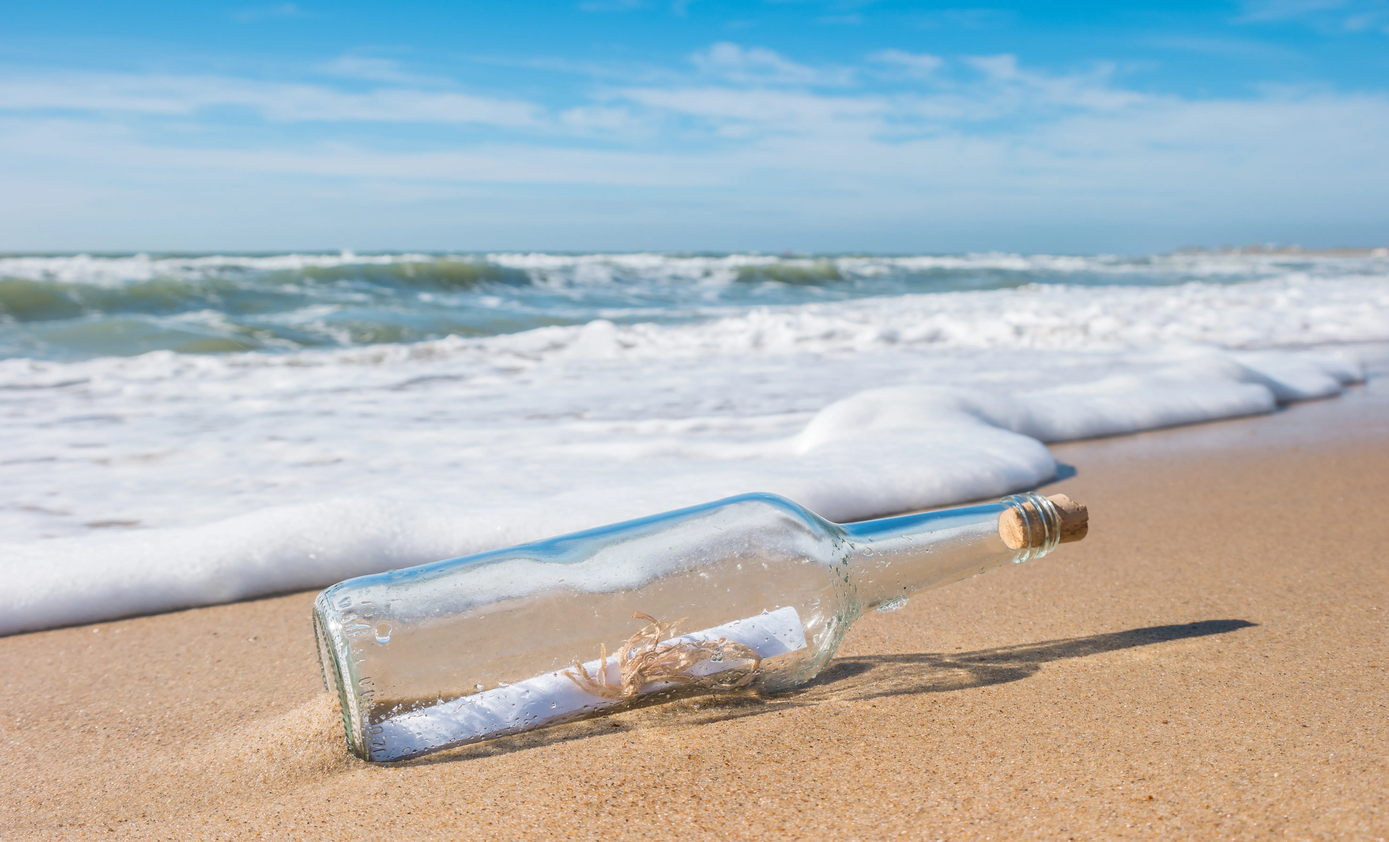
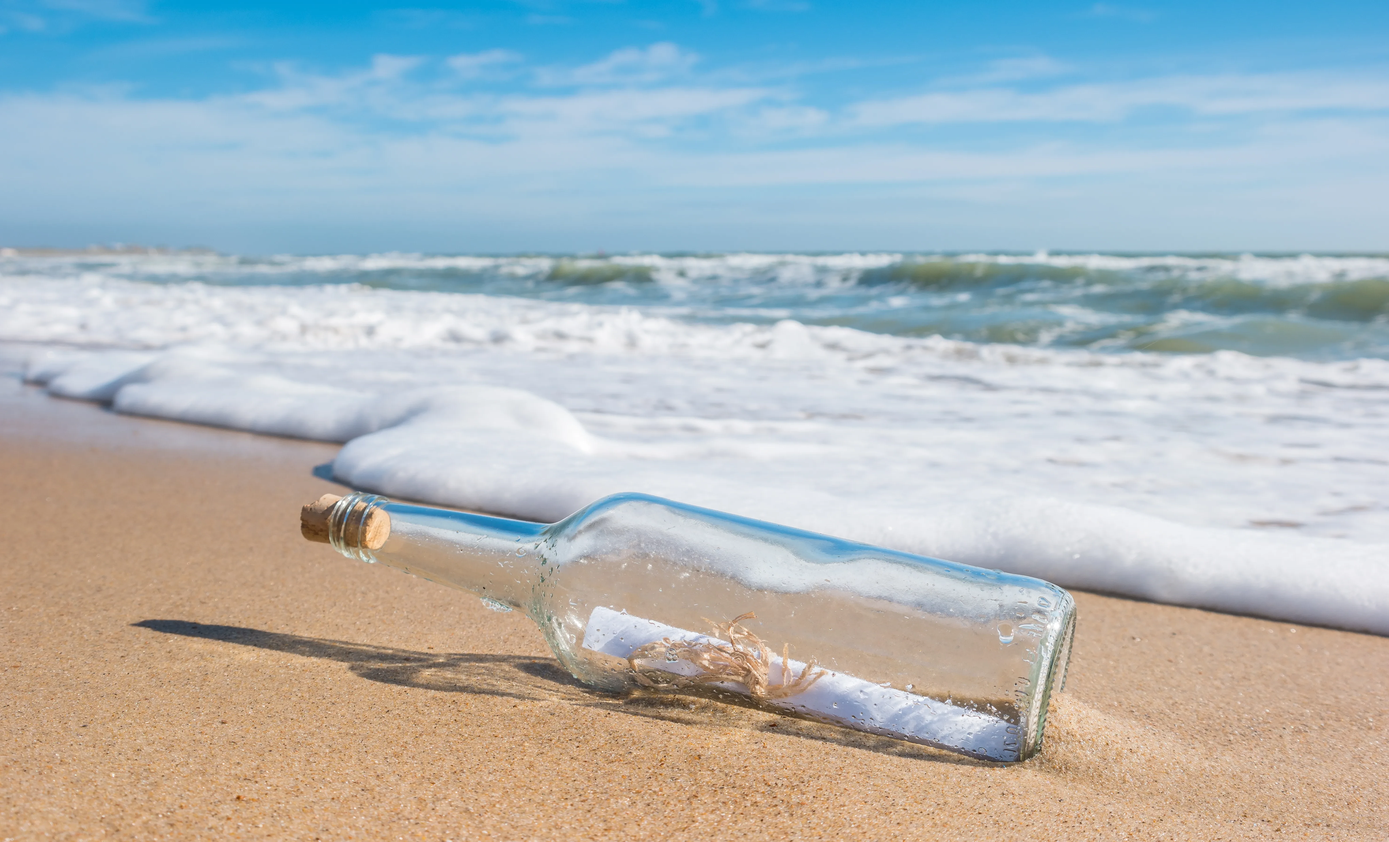
Created basic structure for authentication page

diff --git a/src/components/auth/Background.jsx b/src/components/auth/Background.jsx
@@ -1,0 +1,27 @@
+import React from 'react'
+
+const BackgroundImage = () => {
+  return (
+    <div className='auth-image flex'>
+      <aside className='auth-form-background'>
+
+        <section>
+          <form className='flex column flex-center'>
+            <label className='auth-label'>Email</label>
+            <input></input>
+            <label className='auth-label'>Password</label>
+            <input></input>
+          </form>
+        </section>
+        
+        <section>
+          <button>
+            Login
+          </button>
+        </section>
+      </aside>
+    </div>
+  )
+}
+
+export default BackgroundImage;

diff --git a/src/pages/AuthPage/AuthPage.css b/src/pages/AuthPage/AuthPage.css
@@ -1,0 +1,23 @@
+.auth-image {
+    background-image: url("../../assets/Background/message-in-a-bottle-o.webp");
+    background-size: cover;
+    background-repeat: no-repeat;
+    background-position: center bottom;
+    height: 100dvh;
+    width: auto;
+    transform: rotateX('180');
+}
+
+.auth-form-background {
+    background-color: black;
+    opacity: 80%;
+    height: 100%;
+    min-width: 40dvw;
+}
+
+.auth-label {
+    color: white;
+    font-weight: 500;
+    text-align: left;
+    padding: 5%;
+}

diff --git a/src/pages/AuthPage/AuthPage.jsx b/src/pages/AuthPage/AuthPage.jsx
@@ -1,8 +1,11 @@
-import React from 'react'
+import React from 'react';
+import './AuthPage.css';
+import '../global.css';
+import BackgroundImage from '../../components/auth/Background';
 
 const AuthPage = () => {
   return (
-    <div>auth page</div>
+    <BackgroundImage />
   )
 }
 
